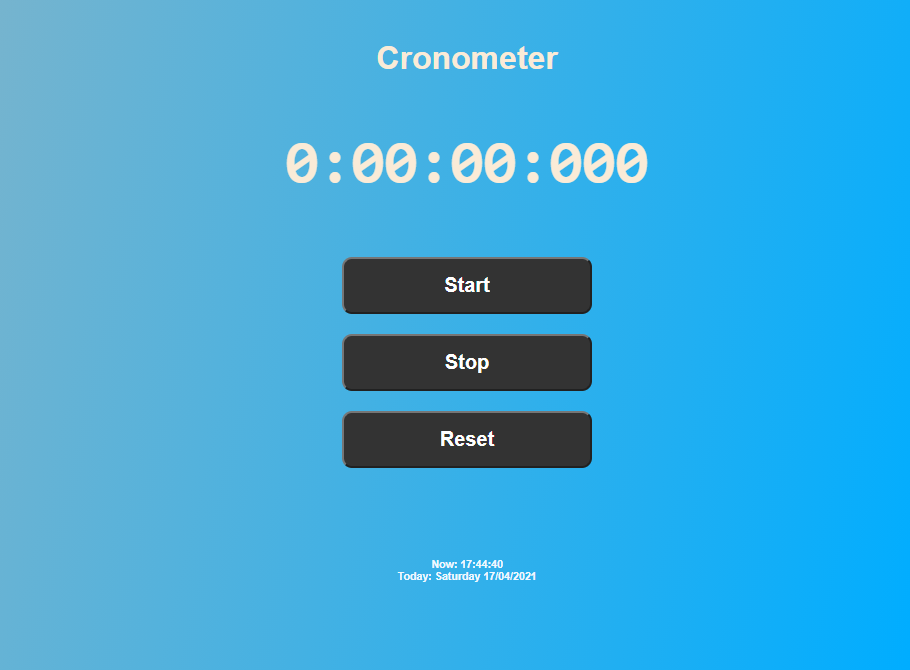
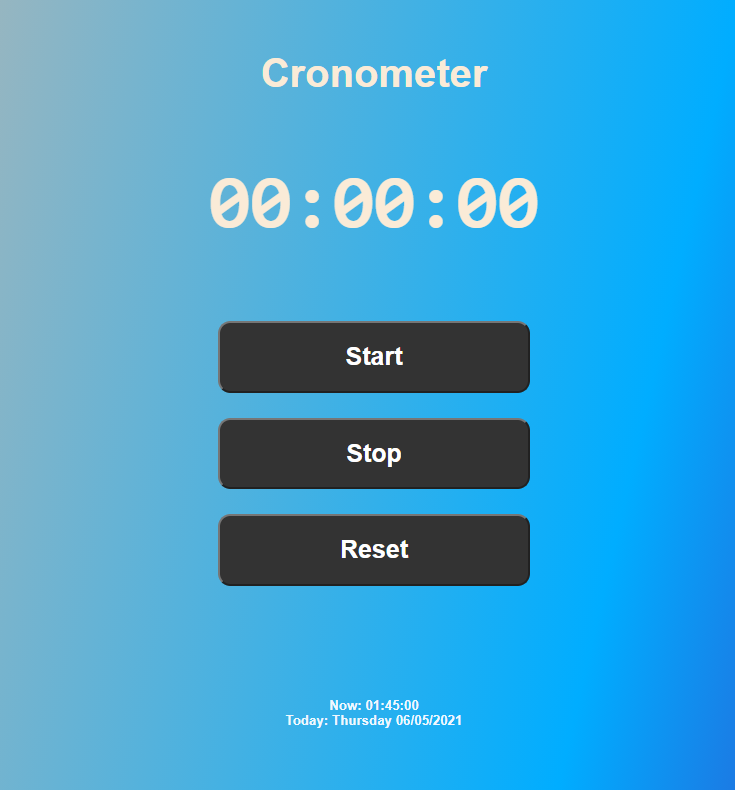
Update

diff --git a/scripts/index.js b/scripts/index.js
@@ -2,7 +2,8 @@ var t1, t2
 const cronometerElement = document.getElementById('id-cronometer')
 const dayInfoElement = document.getElementById('div-day-info')
 const buttonStopElement = document.getElementById('button-stop')
-const timeStart = `0:00:00:000`
+const buttonStartElement = document.getElementById('button-start')
+const timeStart = `00:00:00`
 var arrayTime = [0, 0, 0, 0]
 const week_days = [
     "Sunday", "Monday", "Tuesday",
@@ -15,7 +16,7 @@ function timeNow(){
     var seconds = ('0' + date.getSeconds()).slice(-2)
     var minutes = ('0' +  date.getMinutes()).slice(-2)
     var hours = ('0' + date.getHours()).slice(-2)
-    var now = `Now: ${hours}:${minutes}:${seconds}`
+    var now = `Now: ${ hours }:${ minutes }:${ seconds }`
 
     document.getElementById('div-time-info').innerHTML = now
     t1 = setTimeout("timeNow()", 1000)  // repeat each 1 segundo
@@ -28,7 +29,7 @@ function dateNow(){
     var mes = ('0' + (d.getMonth() + 1)).slice(-2)
 
     var divDayInfo = document.getElementById('div-day-info')
-    divDayInfo.innerHTML = `Today: ${d_semana} ${dia}/${mes}/${d.getFullYear()}`
+    divDayInfo.innerHTML = `Today: ${ d_semana } ${ dia }/${ mes }/${ d.getFullYear() }`
 }
 
 
@@ -36,19 +37,20 @@ function getTime(){
     arrayTime = timeUpdate()
 
     var arrayTimestr = [
-        ('00' + parseInt(1000 * arrayTime[0]/200)).slice(-3),
+        ('00' + parseInt(arrayTime[0])).slice(-3),
         ('0' + arrayTime[1]).slice(-2),
         ('0' + arrayTime[2]).slice(-2),
+        ('0' + arrayTime[3]).slice(-2),
     ]
-    cronometerElement.innerHTML = `${arrayTime[3]}:${arrayTimestr[2]}:${arrayTimestr[1]}:${arrayTimestr[0]}`
+    cronometerElement.innerHTML = `${ arrayTimestr[3] }:${ arrayTimestr[2] }:${ arrayTimestr[1] }`
 
-    t2 = setTimeout("getTime()", 0.1) // repeat each milisecond
+    t2 = setTimeout("getTime()", 500) // repeat each milisecond
 }
 
 
 function timeUpdate(){
-    arrayTime[0] += 1
-    if (arrayTime[0] >= 200) {
+    arrayTime[0] += 500
+    if (arrayTime[0] >= 1000) {
         arrayTime[0] = 0
         arrayTime[1] += 1
     }
@@ -66,6 +68,8 @@ function timeUpdate(){
 
 function start(){
     getTime()
+    buttonStartElement.classList.add('disabled')
+    buttonStartElement.disabled = true
 }
 
 function reset(){
@@ -76,6 +80,8 @@ function reset(){
 
 function stop(){
     clearTimeout(t2)
+    buttonStartElement.classList.remove('disabled')
+    buttonStartElement.disabled = false
 }
 
 timeNow()

diff --git a/index.html b/index.html
@@ -16,7 +16,7 @@
             </header>
 
             <section class="button-container">
-                <button class="button" onclick="start()">Start</button>
+                <button class="button" id="button-start" onclick="start()">Start</button>
                 <button class="button" id="button-stop" onclick="stop()">Stop</button>
                 <button class="button" onclick="reset()">Reset</button>
             </section>

diff --git a/styles/index.css b/styles/index.css
@@ -66,6 +66,11 @@ header h1, header h2 {
 	outline: none;
 }
 
+.button.disabled {
+	background-color: rgb(61, 29, 29);
+	cursor: not-allowed;
+}
+
 
 footer {
     color: aliceblue;
